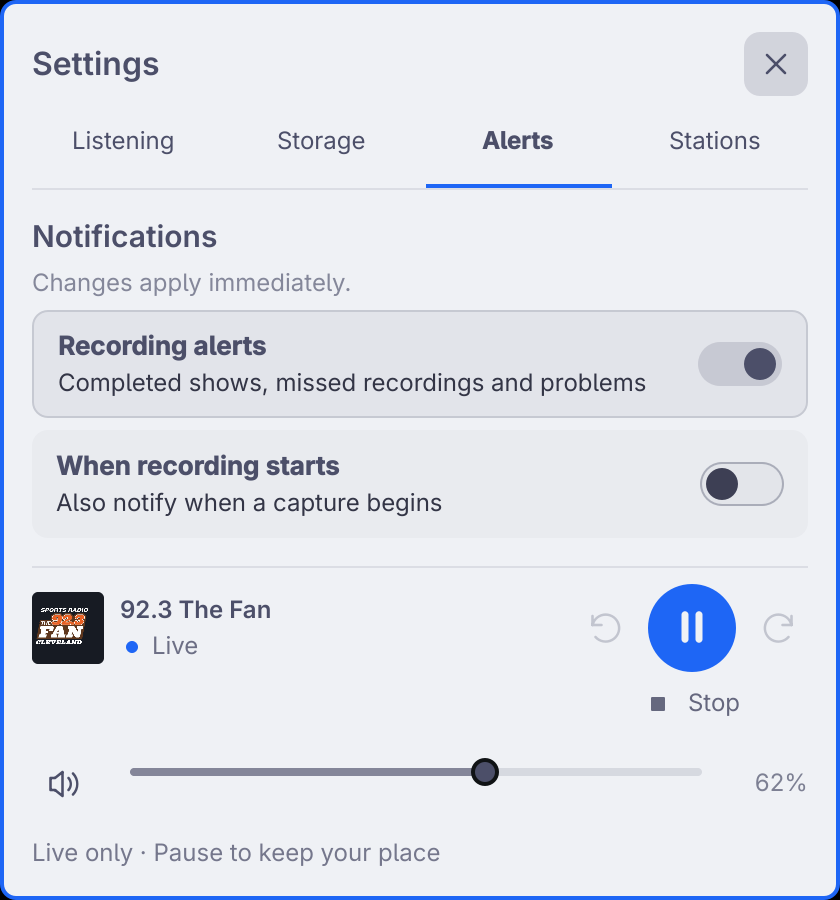
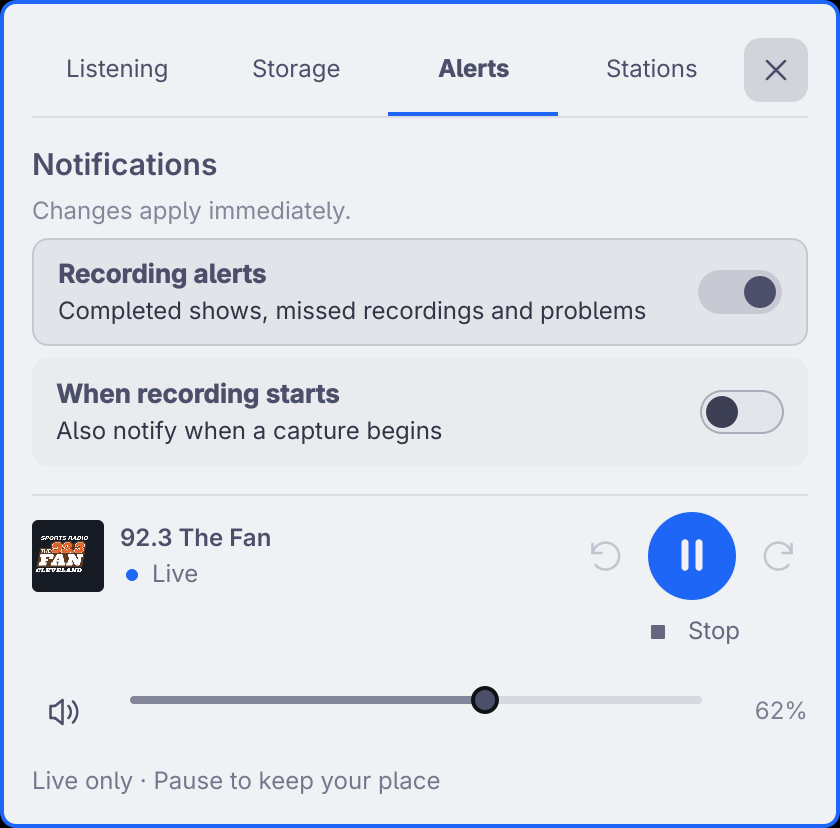
Start Settings with its tabs and an inline close control

diff --git a/Panel.qml b/Panel.qml
@@ -165,7 +165,7 @@ Ui.Panel {
     recordingsView.storageEditing = false
     stationPicker.close(); speedPicker.close(); sleepPopup.close()
     scroller.contentY = 0
-    cursor = 4
+    cursor = 30
     keyboardNavigation = true
     keyCatcher.forceActiveFocus()
   }
@@ -286,9 +286,9 @@ Ui.Panel {
     keyCatcher.forceActiveFocus()
     let order = [20,14,21,4]
     if (settingsOpen) {
-      order = [4,30,31,32,33]
-      if (captureIndicator.visible) order.unshift(58)
+      order = [30,31,32,33,4]
       if (settingsTab === "listening") order = order.concat([40,41,42,43])
+      if (captureIndicator.visible) order.push(58)
       if (dockBack.enabled) order.push(54)
       if (dockPlay.enabled) order.push(55)
       if (dockForward.enabled) order.push(56)
@@ -490,44 +490,6 @@ Ui.Panel {
           width: parent.width
           spacing: Style.space(4)
           Row {
-            visible: root.settingsOpen
-            width: parent.width
-            spacing: Style.space(8)
-            Text {
-              id: settingsSectionTitle
-              width: parent.width - settingsCloseButton.width - (captureIndicator.visible ? captureIndicator.width + parent.spacing * 2 : parent.spacing)
-              anchors.verticalCenter: parent.verticalCenter
-              text: "Settings"
-              textFormat: Text.PlainText
-              color: root.barForeground
-              font.family: root.uiFontFamily
-              font.pixelSize: Style.fontPx(1.333)
-              font.weight: Font.DemiBold
-              elide: Text.ElideRight
-            }
-            Radio.FocusButton {
-              id: captureIndicator
-              visible: Number(root.radio.recordings.activeCount) > 0
-              width: visible ? implicitWidth : 0
-              text: "● REC " + root.radio.recordings.activeCount
-              fontSize: Style.fontPx(1)
-              foreground: Commons.Color.urgent
-              tooltipText: "Background captures · Open recordings"
-              focusable: true
-              hasCursor: root.virtualFocus && root.cursor === 58
-              onHovered: hovered => { if (hovered) { root.keyboardNavigation = false; root.cursor = 58 } }
-              onClicked: root.openRecordings(false)
-            }
-            SettingsControl {
-              id: settingsCloseButton
-              iconName: "close"
-              tooltipText: "Close settings"
-              selected: true
-              focusable: true
-              onClicked: root.closeSettings()
-            }
-          }
-          Row {
             id: mainNavigation
             visible: !root.settingsOpen
             width: parent.width
@@ -597,16 +559,18 @@ Ui.Panel {
             }
           }
           Row {
+            id: settingsNavigation
             width: parent.width
             visible: root.settingsOpen
-            spacing: Style.space(6)
+            spacing: Style.space(4)
             Repeater {
               id: settingsTabs
               model: [{key:"listening",label:"Listening"}, {key:"storage",label:"Storage"}, {key:"alerts",label:"Alerts"}, {key:"stations",label:"Stations"}]
               NavigationTab {
                 required property var modelData
                 required property int index
-                width: (parent.width - parent.spacing * 3) / 4
+                width: (settingsNavigation.width - settingsCloseButton.width - settingsNavigation.spacing * 4) / 4
+                horizontalPadding: Style.space(4)
                 text: modelData.label
                 cursorId: 30 + index
                 fontSize: Style.fontPx(1)
@@ -620,6 +584,15 @@ Ui.Panel {
                 onHovered: hovered => { if (hovered) { root.keyboardNavigation = false; root.cursor = 30 + index } }
                 onClicked: root.selectSettingsTab(modelData.key)
               }
+            }
+            SettingsControl {
+              id: settingsCloseButton
+              anchors.verticalCenter: parent.verticalCenter
+              iconName: "close"
+              tooltipText: "Close settings"
+              selected: true
+              focusable: true
+              onClicked: root.closeSettings()
             }
           }
           Ui.PanelSeparator { width: parent.width }
@@ -1418,6 +1391,21 @@ Ui.Panel {
                   maximumLineCount: 2
                   elide: Text.ElideRight
                 }
+              }
+              Radio.FocusButton {
+                id: captureIndicator
+                visible: root.settingsOpen && Number(root.radio.recordings.activeCount) > 0
+                width: visible ? implicitWidth : 0
+                text: "● REC " + root.radio.recordings.activeCount
+                fontSize: Style.fontPx(1)
+                horizontalPadding: Style.space(6)
+                verticalPadding: Style.space(4)
+                foreground: Commons.Color.urgent
+                tooltipText: "Background captures · Open recordings"
+                focusable: true
+                hasCursor: root.virtualFocus && root.cursor === 58
+                onHovered: hovered => { if (hovered) { root.keyboardNavigation = false; root.cursor = 58 } }
+                onClicked: root.openRecordings(false)
               }
             }
             Column {

diff --git a/tools/qml-smoke/recordings.qml b/tools/qml-smoke/recordings.qml
@@ -177,8 +177,8 @@ ShellRoot {
           verify(!panel.testDockStatus.truncated, "The compact player hides the buffering state")
           capture("paused-buffering-dock-small")
           radio.recordings = Object.assign({}, radio.recordings, {activeCount:1})
-          panel.testCatcher.forceActiveFocus(); panel.cursor = 4
-          keyClick(Qt.Key_Backtab); compare(panel.cursor, 58)
+          panel.testCatcher.forceActiveFocus(); panel.cursor = 43
+          keyClick(Qt.Key_Tab); compare(panel.cursor, 58)
           keyClick(Qt.Key_Return)
           verify(panel.recordingsOpen && !panel.settingsOpen, "Settings recording indicator did not open Library")
           verify(radio.wanted && radio.paused, "Header navigation interrupted paused playback")
@@ -758,7 +758,6 @@ ShellRoot {
           wait(100); keyClick(Qt.Key_Escape); verify(!panel.recordingsOpen, "Second Escape did not return to player")
           panel.testSettingsButton.clicked()
           verify(panel.settingsOpen && panel.testSettings.visible && !panel.testPlayerView.visible)
-          compare(panel.testSectionTitle.text, "Settings")
           compare(panel.testSettingsTabs.count, 4)
           compare(panel.testSettingsClose.iconName, "close")
           const settingsVolume = panel.radio.volume
@@ -784,7 +783,8 @@ ShellRoot {
           panel.testBufferPresets.itemAt(1).clicked(); tryCompare(panel.radio, "bufferMinutes", 5)
           panel.testBufferPresets.itemAt(0).clicked(); tryCompare(panel.radio, "bufferMinutes", 0)
           verify(panel.testBufferDescription.text.indexOf("temporary 15-minute") >= 0)
-          panel.cursor = 33; panel.advanceCursor(1); compare(panel.cursor, 40)
+          panel.cursor = 33; panel.advanceCursor(1); compare(panel.cursor, 4)
+          panel.advanceCursor(1); compare(panel.cursor, 40)
           window.width = 320; window.height = 300
           wait(50); compare(panel.width, 320)
           panel.cursor = 43; panel.ensureCursorVisible()

diff --git a/tools/test-recordings-ui.py b/tools/test-recordings-ui.py
@@ -72,7 +72,6 @@ def main():
   property alias testStationList: customStations
   property alias testSettings: settingsView
   property alias testPlayerView: playerView
-  property alias testSectionTitle: settingsSectionTitle
   property alias testSettingsButton: settingsButton
   property alias testSettingsClose: settingsCloseButton
   property alias testDock: playbackDock

diff --git a/README.md b/README.md
@@ -310,8 +310,8 @@ Up to **three recordings** can run at once, including while you listen to anothe
 station. Closing the popup, stopping foreground audio, changing stations, or
 playing a saved recording leaves those captures running. The bar dot turns red
 while capturing; a recording dot on the **Library** tab marks active captures.
-The Library tooltip shows the count, and Settings keeps a **REC** count that opens
-the library. The machine must be awake
+The Library tooltip shows the count, and the persistent player in Settings
+keeps a **REC** count that opens the library. The machine must be awake
 with the plugin loaded in the bar. Disabling/removing the last widget, restarting
 the shell, or shutting down the helper interrupts captures. Recoverable output is
 retained as partial; when the plugin returns during the scheduled interval it can
@@ -495,11 +495,12 @@ This is a plain line-oriented CLI; each command requires Enter.
 
 ## Settings and stations
 
-The gear opens **Settings**, with four tabs: **Listening**, **Storage**,
+The gear opens **Settings**, starting with four tabs: **Listening**, **Storage**,
 **Alerts**, and **Stations**. Listening shows the Live only / 5 / 15 / 30 minute
 buffer choices directly, with an explanation of the selected mode and a compact
-two-column keyboard shortcut reference. Each tab replaces the content below it; the playback
-dock and top-right X stay available. X returns to your previous player section.
+two-column keyboard shortcut reference. Each tab replaces the content below it;
+the playback dock stays available, with the X at the right end of the tab row.
+X returns to your previous player section.
 Storage has its own Save and Reset controls. Alerts apply immediately and have
 no save buttons. Switching tabs preserves unfinished storage and station drafts;
 closing settings discards unsaved drafts.
